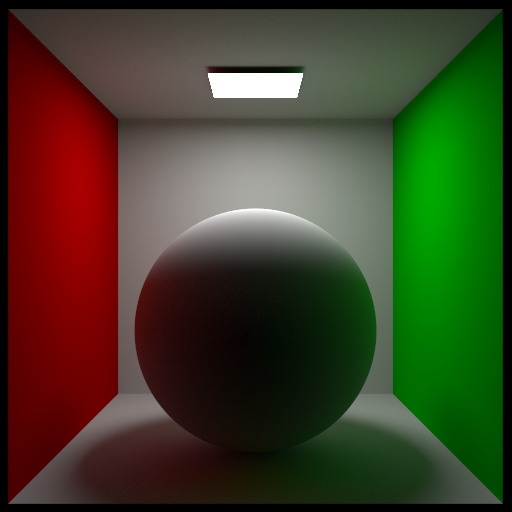
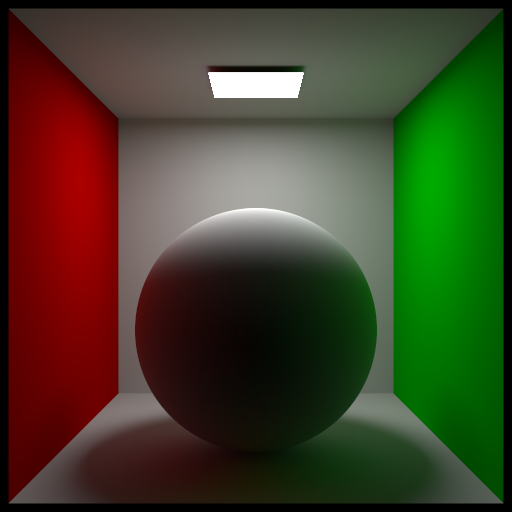
gebin working on hydra3 spec

Changed region(s): [[0.8438, 0.8438, 0.875, 0.875], [0.8125, 0.8125, 0.8438, 0.8438], [0.7812, 0.7812, 0.8125, 0.8125]]

diff --git a/tests_mtl.cpp b/tests_mtl.cpp
@@ -426,7 +426,7 @@ namespace MTL_TESTS
       node.append_child(L"qmc_variant").text()      = 7;
 
       node.append_child(L"trace_depth").text()      = 8;
-      node.append_child(L"diff_trace_depth").text() = 4;
+      node.append_child(L"diff_trace_depth").text() = 6;
       node.append_child(L"maxRaysPerPixel").text()  = 1024;
     }
     hrRenderClose(renderRef);
@@ -605,15 +605,15 @@ namespace MTL_TESTS
    hrRenderOpen(renderRef, HR_WRITE_DISCARD);
    {
      pugi::xml_node node = hrRenderParamNode(renderRef);
-     node.append_child(L"width").text()            = 1024;
-     node.append_child(L"height").text()           = 1024;
+     node.append_child(L"width").text()            = 512;
+     node.append_child(L"height").text()           = 512;
      node.append_child(L"method_primary").text()   = L"pathtracing";
      node.append_child(L"method_secondary").text() = L"pathtracing";
      node.append_child(L"method_tertiary").text()  = L"pathtracing";
      node.append_child(L"method_caustic").text()   = L"pathtracing";
-     node.append_child(L"qmc_variant").text()      = 7;
+     node.append_child(L"qmc_variant").text()      = 1;
      node.append_child(L"trace_depth").text()      = 10;
-     node.append_child(L"diff_trace_depth").text() = 4;
+     node.append_child(L"diff_trace_depth").text() = 6;
      node.append_child(L"maxRaysPerPixel").text()  = 4096;
    }
    hrRenderClose(renderRef);

diff --git a/main.cpp b/main.cpp
@@ -126,15 +126,16 @@ int main(int argc, const char** argv)
   {
     //MTL_TESTS::test_101_diffuse_lambert_orbspec_mat01();
     //MTL_TESTS::test_103_diffuse_texture();
+    MTL_TESTS::test_102_mirror_orbspec_mat02();
 
-//    EXTENSIONS_TESTS::test_ext_vtex_7();
-//    EXTENSIONS_TESTS::test_ext_vtex_8();
-//    run_all_vector_tex_tests();
-//    test75_repeated_render();
-//    test_motion_blur();
+    //EXTENSIONS_TESTS::test_ext_vtex_7();
+    //EXTENSIONS_TESTS::test_ext_vtex_8();
+    //run_all_vector_tex_tests();
+    //test75_repeated_render();
+    //test_motion_blur();
     //run_all_api_tests();
     //run_all_geo_tests();
-    run_all_mtl_tests();
+    //run_all_mtl_tests();
     //run_all_lgt_tests();
     //run_all_alg_tests();
     //run_all_3dsmax_tests();

diff --git a/utils.cpp b/utils.cpp
@@ -519,7 +519,7 @@ namespace TEST_UTILS
       node.append_child(L"method_caustic").text()   = L"pathtracing";
 
       node.append_child(L"trace_depth").text()      = 6;
-      node.append_child(L"diff_trace_depth").text() = 3;
+      node.append_child(L"diff_trace_depth").text() = 4;
       node.append_child(L"maxRaysPerPixel").text()  = maxRays;
       node.append_child(L"resources_path").text()   = L"..";
       node.append_child(L"offline_pt").text()       = 0;
